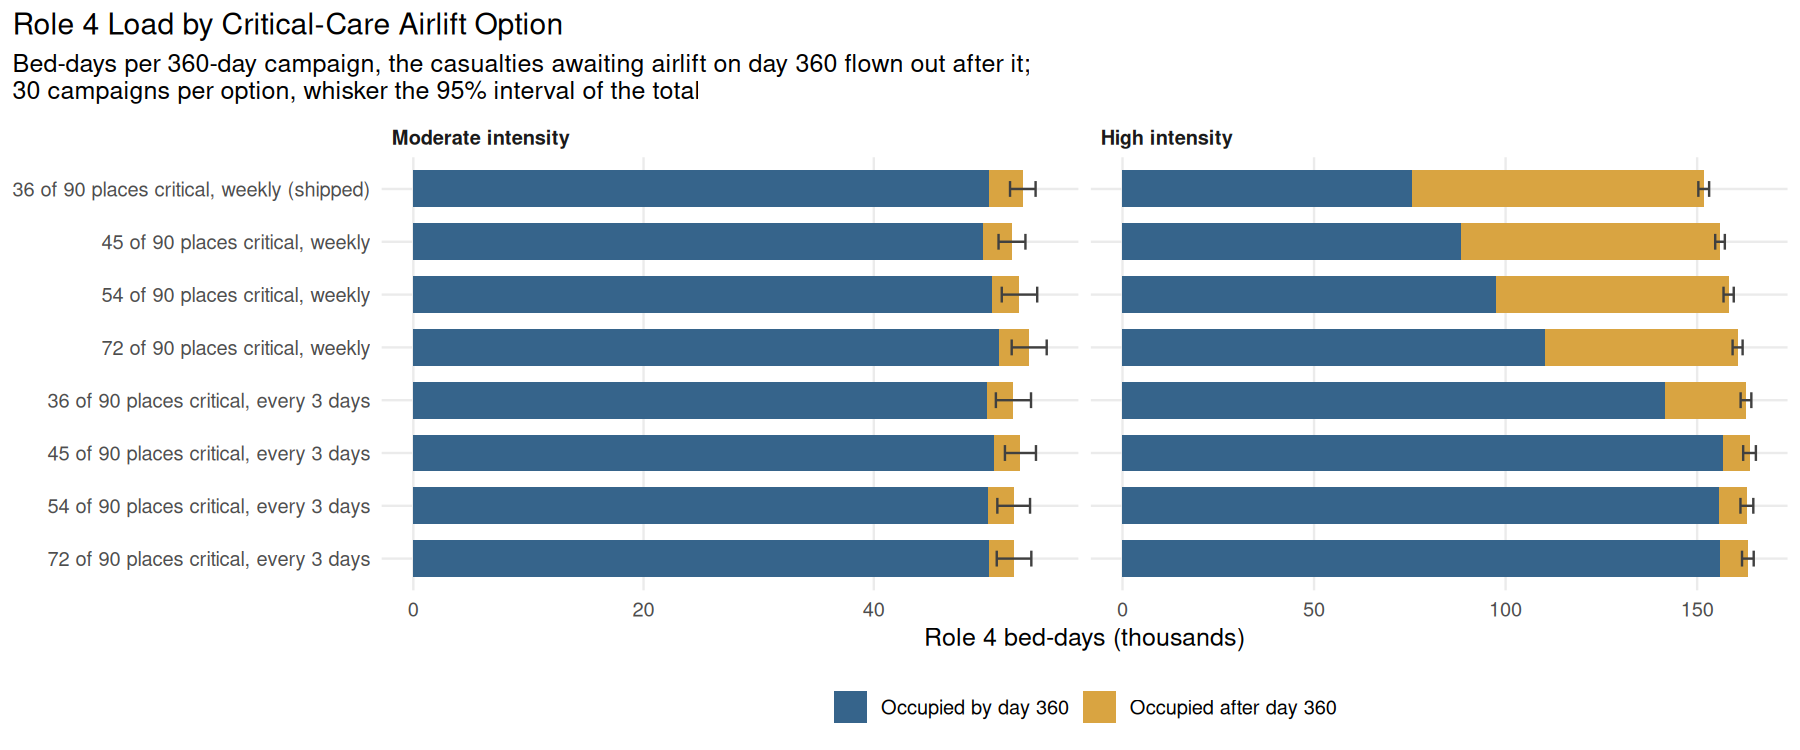
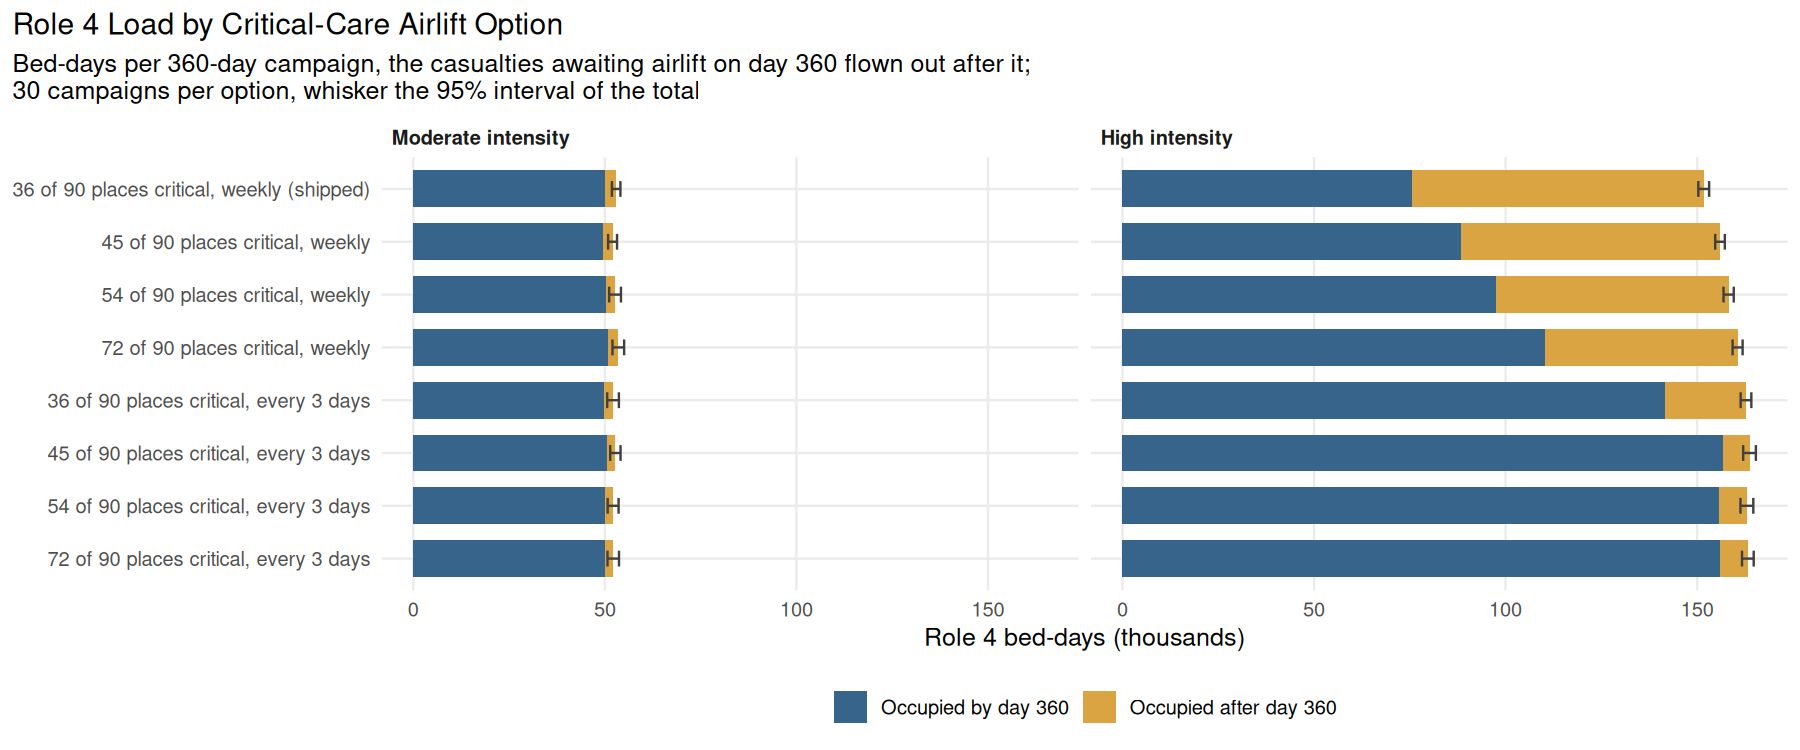
feat(issue-621): Role 4 load figure on one scale across intensities
Claude-Session: https://claude.ai/code/session_01CkaegvR5JF22fhwZUpSGkn

diff --git a/docs/Results.md b/docs/Results.md
@@ -1685,7 +1685,7 @@ At high intensity the shipped split and interval held <!-- GEN cell:airlift_plac
 
 ![Role 4 bed-days per campaign for eight critical-care place and sortie interval options at each intensity, divided into those occupied by day 360 and after it](../images/role4_load.png)
 
-Mean Role 4 bed-days per 360-day campaign for each critical-care place and sortie interval option, at moderate intensity (left) and high intensity (right), divided into the bed-days occupied by day 360 and those occupied after it while the casualties still awaiting airlift are flown out at the option's own interval and split. The whisker is the 95% Student t interval of the total, taken within replication; each intensity has its own scale.
+Mean Role 4 bed-days per 360-day campaign for each critical-care place and sortie interval option, at moderate intensity (left) and high intensity (right), divided into the bed-days occupied by day 360 and those occupied after it while the casualties still awaiting airlift are flown out at the option's own interval and split. The whisker is the 95% Student t interval of the total, taken within replication; the two intensities share one scale.
 
 ---
 
